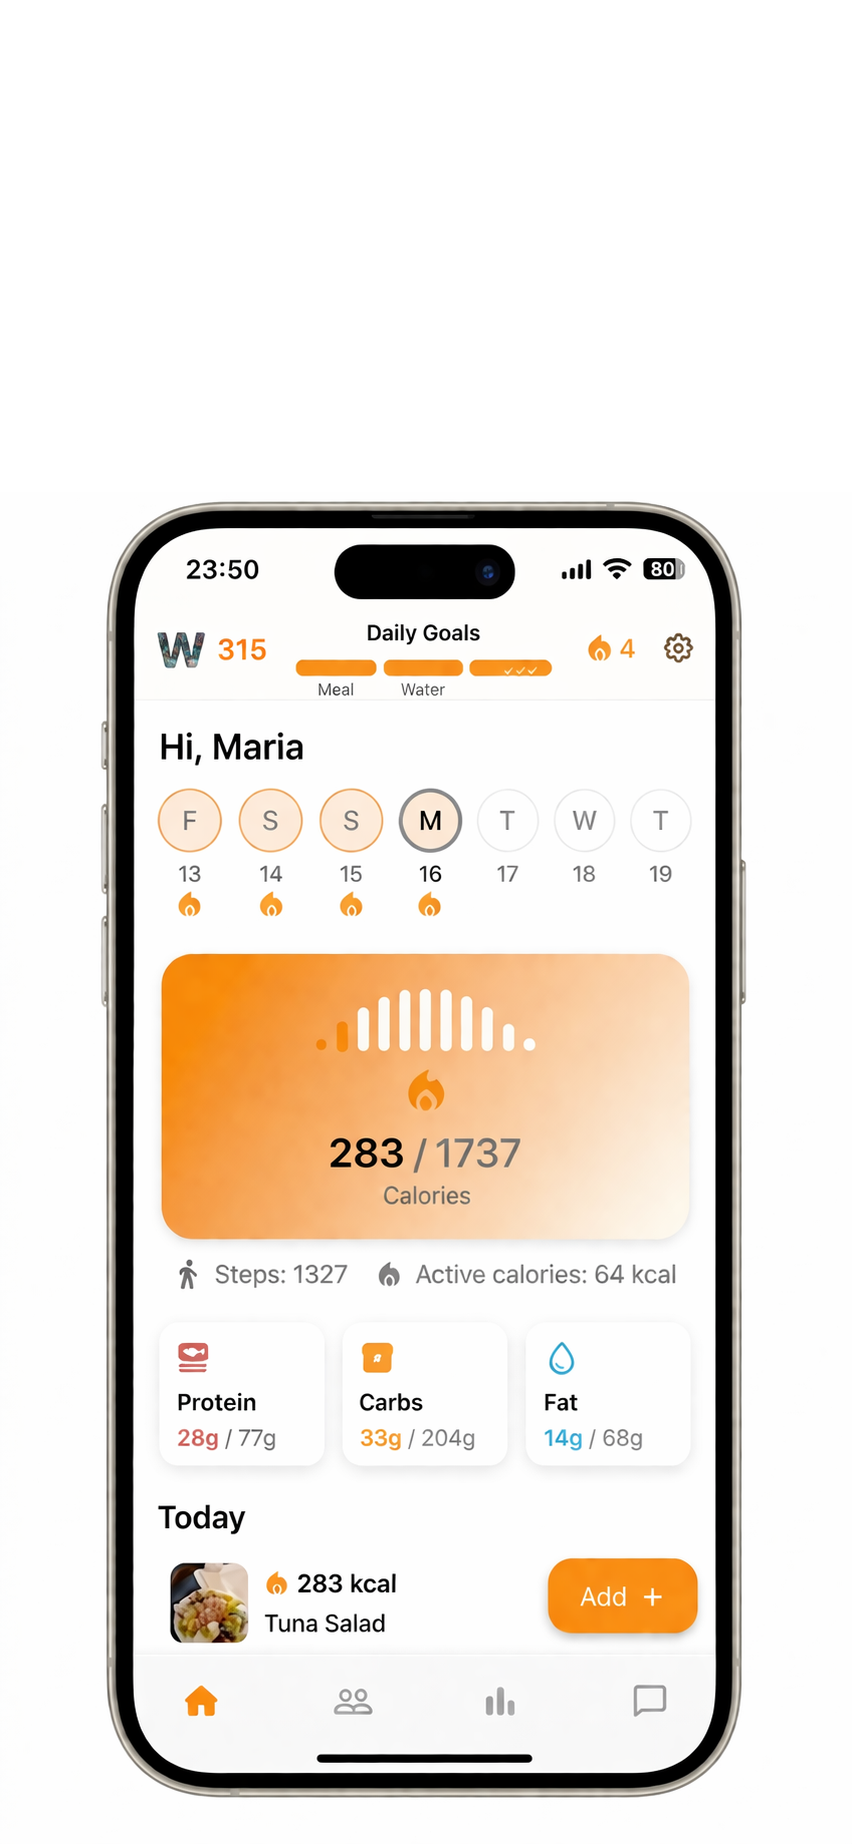
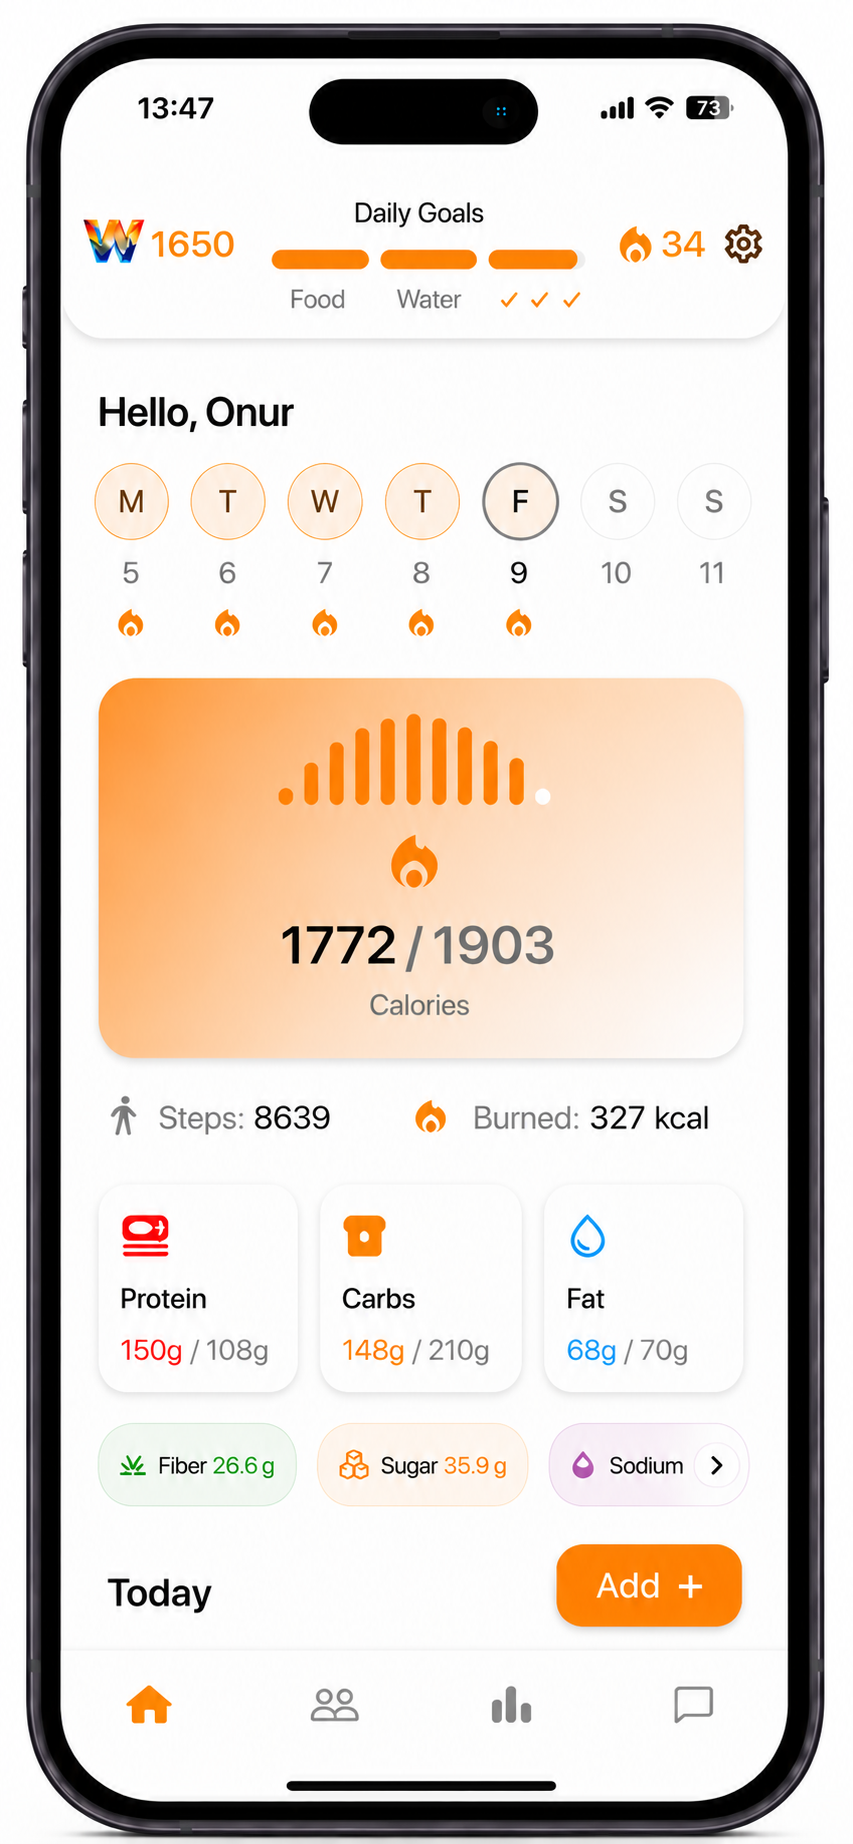
localization

diff --git a/tr/index.html b/tr/index.html
@@ -44,7 +44,7 @@
           </div>
         </div>
         <div class="hero__mockup">
-          <img src="../assets/1_1V1.png"/>
+          <img src="../assets/tr/1_1.png"/>
         </div>
       </div>
     </section>
@@ -87,23 +87,23 @@
         <h2 class="section-title">FitWow'u aksiyonda görün</h2>
         <div class="preview__grid">
           <div class="hero__mockup_2">
-            <img src="../assets/1V1.png"/>
+            <img src="../assets/tr/1.png"/>
           </div>
 
           <div class="hero__mockup_2">
-            <img src="../assets/2.png"/>
+            <img src="../assets/tr/2.png"/>
           </div>
           
           <div class="hero__mockup_2">
-            <img src="../assets/3.png"/>
+            <img src="../assets/tr/3.png"/>
           </div>
           
           <div class="hero__mockup_2">
-            <img src="../assets/4.png"/>
+            <img src="../assets/tr/4.png"/>
           </div>
 
           <div class="hero__mockup_2">
-            <img src="../assets/5.png"/>
+            <img src="../assets/tr/5.png"/>
           </div>
         </div>
       </div>

diff --git a/ar/index.html b/ar/index.html
@@ -44,7 +44,7 @@
           </div>
         </div>
         <div class="hero__mockup">
-          <img src="../assets/1_1V1.png"/>
+          <img src="../assets/ar/1_1.png"/>
         </div>
       </div>
     </section>
@@ -87,23 +87,23 @@
         <h2 class="section-title">شاهد FitWow أثناء العمل</h2>
         <div class="preview__grid">
           <div class="hero__mockup_2">
-            <img src="../assets/1V1.png"/>
+            <img src="../assets/ar/1.png"/>
           </div>
 
           <div class="hero__mockup_2">
-            <img src="../assets/2.png"/>
+            <img src="../assets/ar/2.png"/>
           </div>
 
           <div class="hero__mockup_2">
-            <img src="../assets/3.png"/>
+            <img src="../assets/ar/3.png"/>
           </div>
 
           <div class="hero__mockup_2">
-            <img src="../assets/4.png"/>
+            <img src="../assets/ar/4.png"/>
           </div>
 
           <div class="hero__mockup_2">
-            <img src="../assets/5.png"/>
+            <img src="../assets/ar/5.png"/>
           </div>
         </div>
       </div>

diff --git a/fr/index.html b/fr/index.html
@@ -44,7 +44,7 @@
           </div>
         </div>
         <div class="hero__mockup">
-          <img src="../assets/1_1V1.png"/>
+          <img src="../assets/fr/1_1.png"/>
         </div>
       </div>
     </section>
@@ -87,23 +87,23 @@
         <h2 class="section-title">Découvrez FitWow en action</h2>
         <div class="preview__grid">
           <div class="hero__mockup_2">
-            <img src="../assets/1V1.png"/>
+            <img src="../assets/fr/1.png"/>
           </div>
 
           <div class="hero__mockup_2">
-            <img src="../assets/2.png"/>
+            <img src="../assets/fr/2.png"/>
           </div>
 
           <div class="hero__mockup_2">
-            <img src="../assets/3.png"/>
+            <img src="../assets/fr/3.png"/>
           </div>
 
           <div class="hero__mockup_2">
-            <img src="../assets/4.png"/>
+            <img src="../assets/fr/4.png"/>
           </div>
 
           <div class="hero__mockup_2">
-            <img src="../assets/5.png"/>
+            <img src="../assets/fr/5.png"/>
           </div>
         </div>
       </div>

diff --git a/es/index.html b/es/index.html
@@ -44,7 +44,7 @@
           </div>
         </div>
         <div class="hero__mockup">
-          <img src="../assets/1_1V1.png"/>
+          <img src="../assets/es/1_1.png"/>
         </div>
       </div>
     </section>
@@ -87,23 +87,23 @@
         <h2 class="section-title">Descubre FitWow en acción</h2>
         <div class="preview__grid">
           <div class="hero__mockup_2">
-            <img src="../assets/1V1.png"/>
+            <img src="../assets/es/1.png"/>
           </div>
 
           <div class="hero__mockup_2">
-            <img src="../assets/2.png"/>
+            <img src="../assets/es/2.png"/>
           </div>
 
           <div class="hero__mockup_2">
-            <img src="../assets/3.png"/>
+            <img src="../assets/es/3.png"/>
           </div>
 
           <div class="hero__mockup_2">
-            <img src="../assets/4.png"/>
+            <img src="../assets/es/4.png"/>
           </div>
 
           <div class="hero__mockup_2">
-            <img src="../assets/5.png"/>
+            <img src="../assets/es/5.png"/>
           </div>
         </div>
       </div>

diff --git a/de/index.html b/de/index.html
@@ -44,7 +44,7 @@
           </div>
         </div>
         <div class="hero__mockup">
-          <img src="../assets/1_1V1.png"/>
+          <img src="../assets/de/1_1.png"/>
         </div>
       </div>
     </section>
@@ -87,23 +87,23 @@
         <h2 class="section-title">FitWow in Aktion</h2>
         <div class="preview__grid">
           <div class="hero__mockup_2">
-            <img src="../assets/1V1.png"/>
+            <img src="../assets/de/1.png"/>
           </div>
 
           <div class="hero__mockup_2">
-            <img src="../assets/2.png"/>
+            <img src="../assets/de/2.png"/>
           </div>
 
           <div class="hero__mockup_2">
-            <img src="../assets/3.png"/>
+            <img src="../assets/de/3.png"/>
           </div>
 
           <div class="hero__mockup_2">
-            <img src="../assets/4.png"/>
+            <img src="../assets/de/4.png"/>
           </div>
 
           <div class="hero__mockup_2">
-            <img src="../assets/5.png"/>
+            <img src="../assets/de/5.png"/>
           </div>
         </div>
       </div>

diff --git a/styles.css b/styles.css
@@ -234,13 +234,13 @@ a {
 
 .hero__mockup {
   width: 100%;
-  max-width: 280px;
+  max-width: 230px;
   display: flex;
   justify-content: center;
 }
 
 .hero__mockup img {
-  transform: translateY(-10%) scale(1.2);
+  transform: translateY(-6%) scale(1);
   transform-origin: center;
   transition: transform 0.3s ease;
   pointer-events: none;
@@ -1026,7 +1026,7 @@ a {
 
   .hero__mockup {
     flex: 0 0 auto;
-    max-width: 320px;
+    max-width: 260px;
   }
 
   .features__grid {
